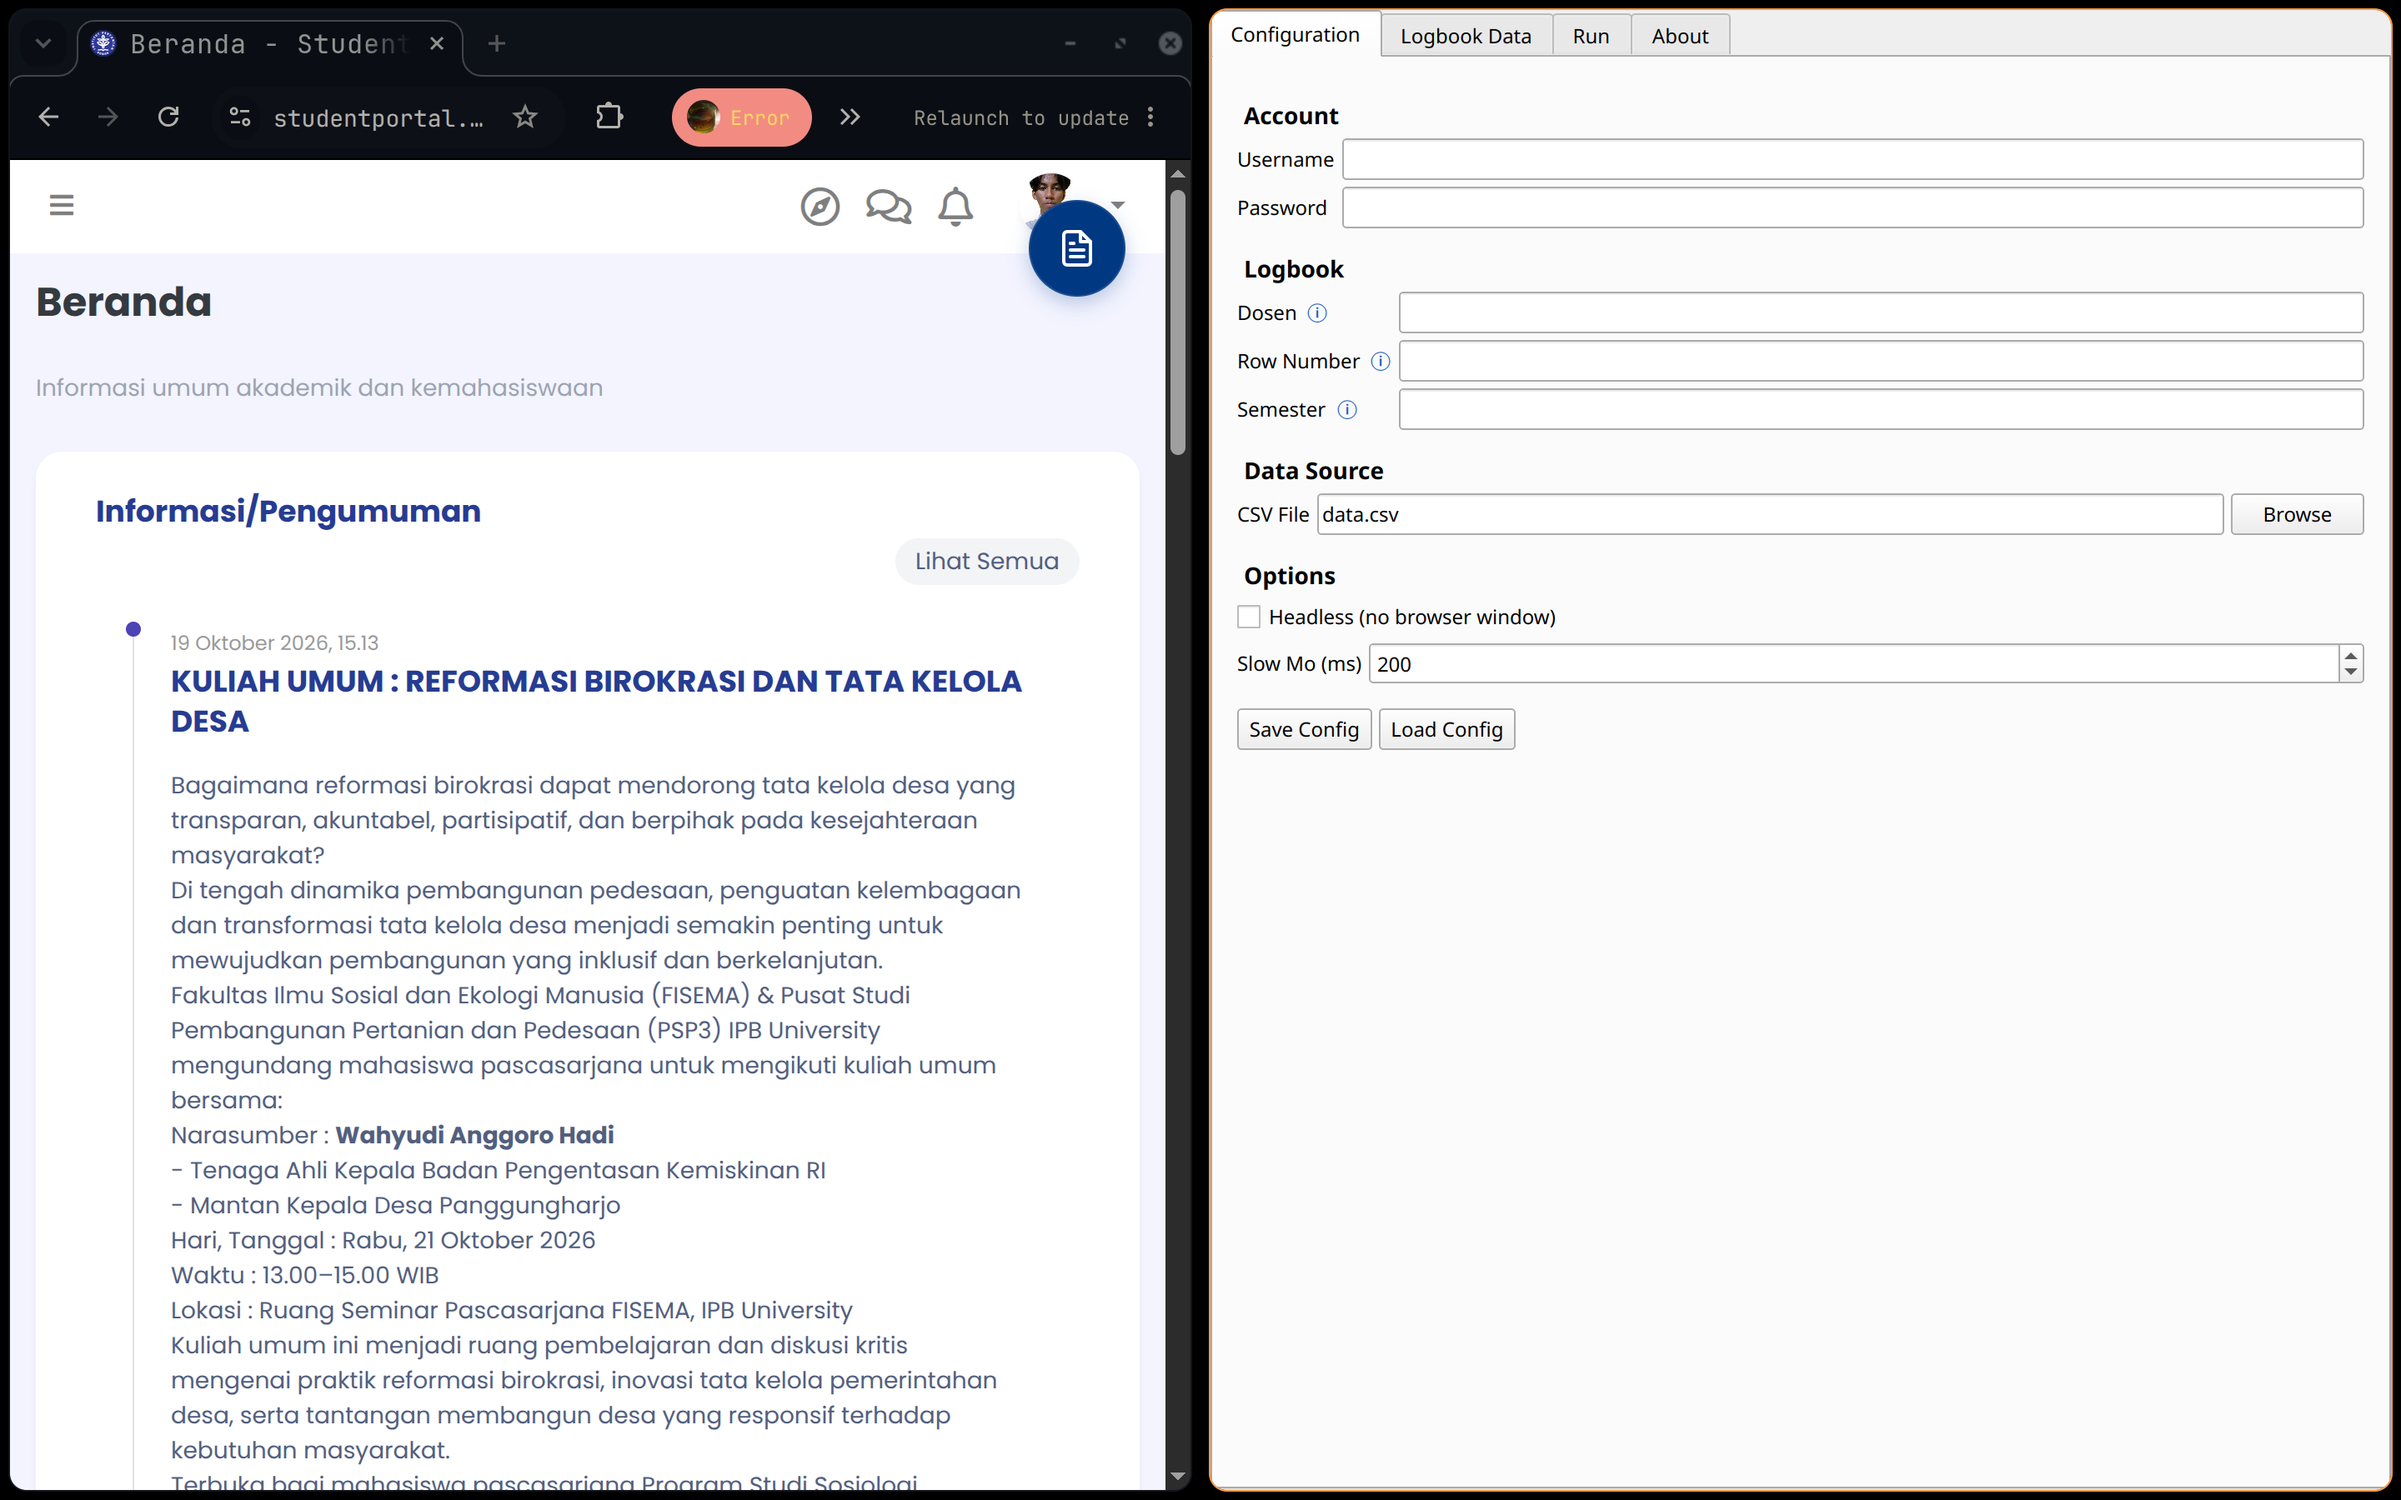
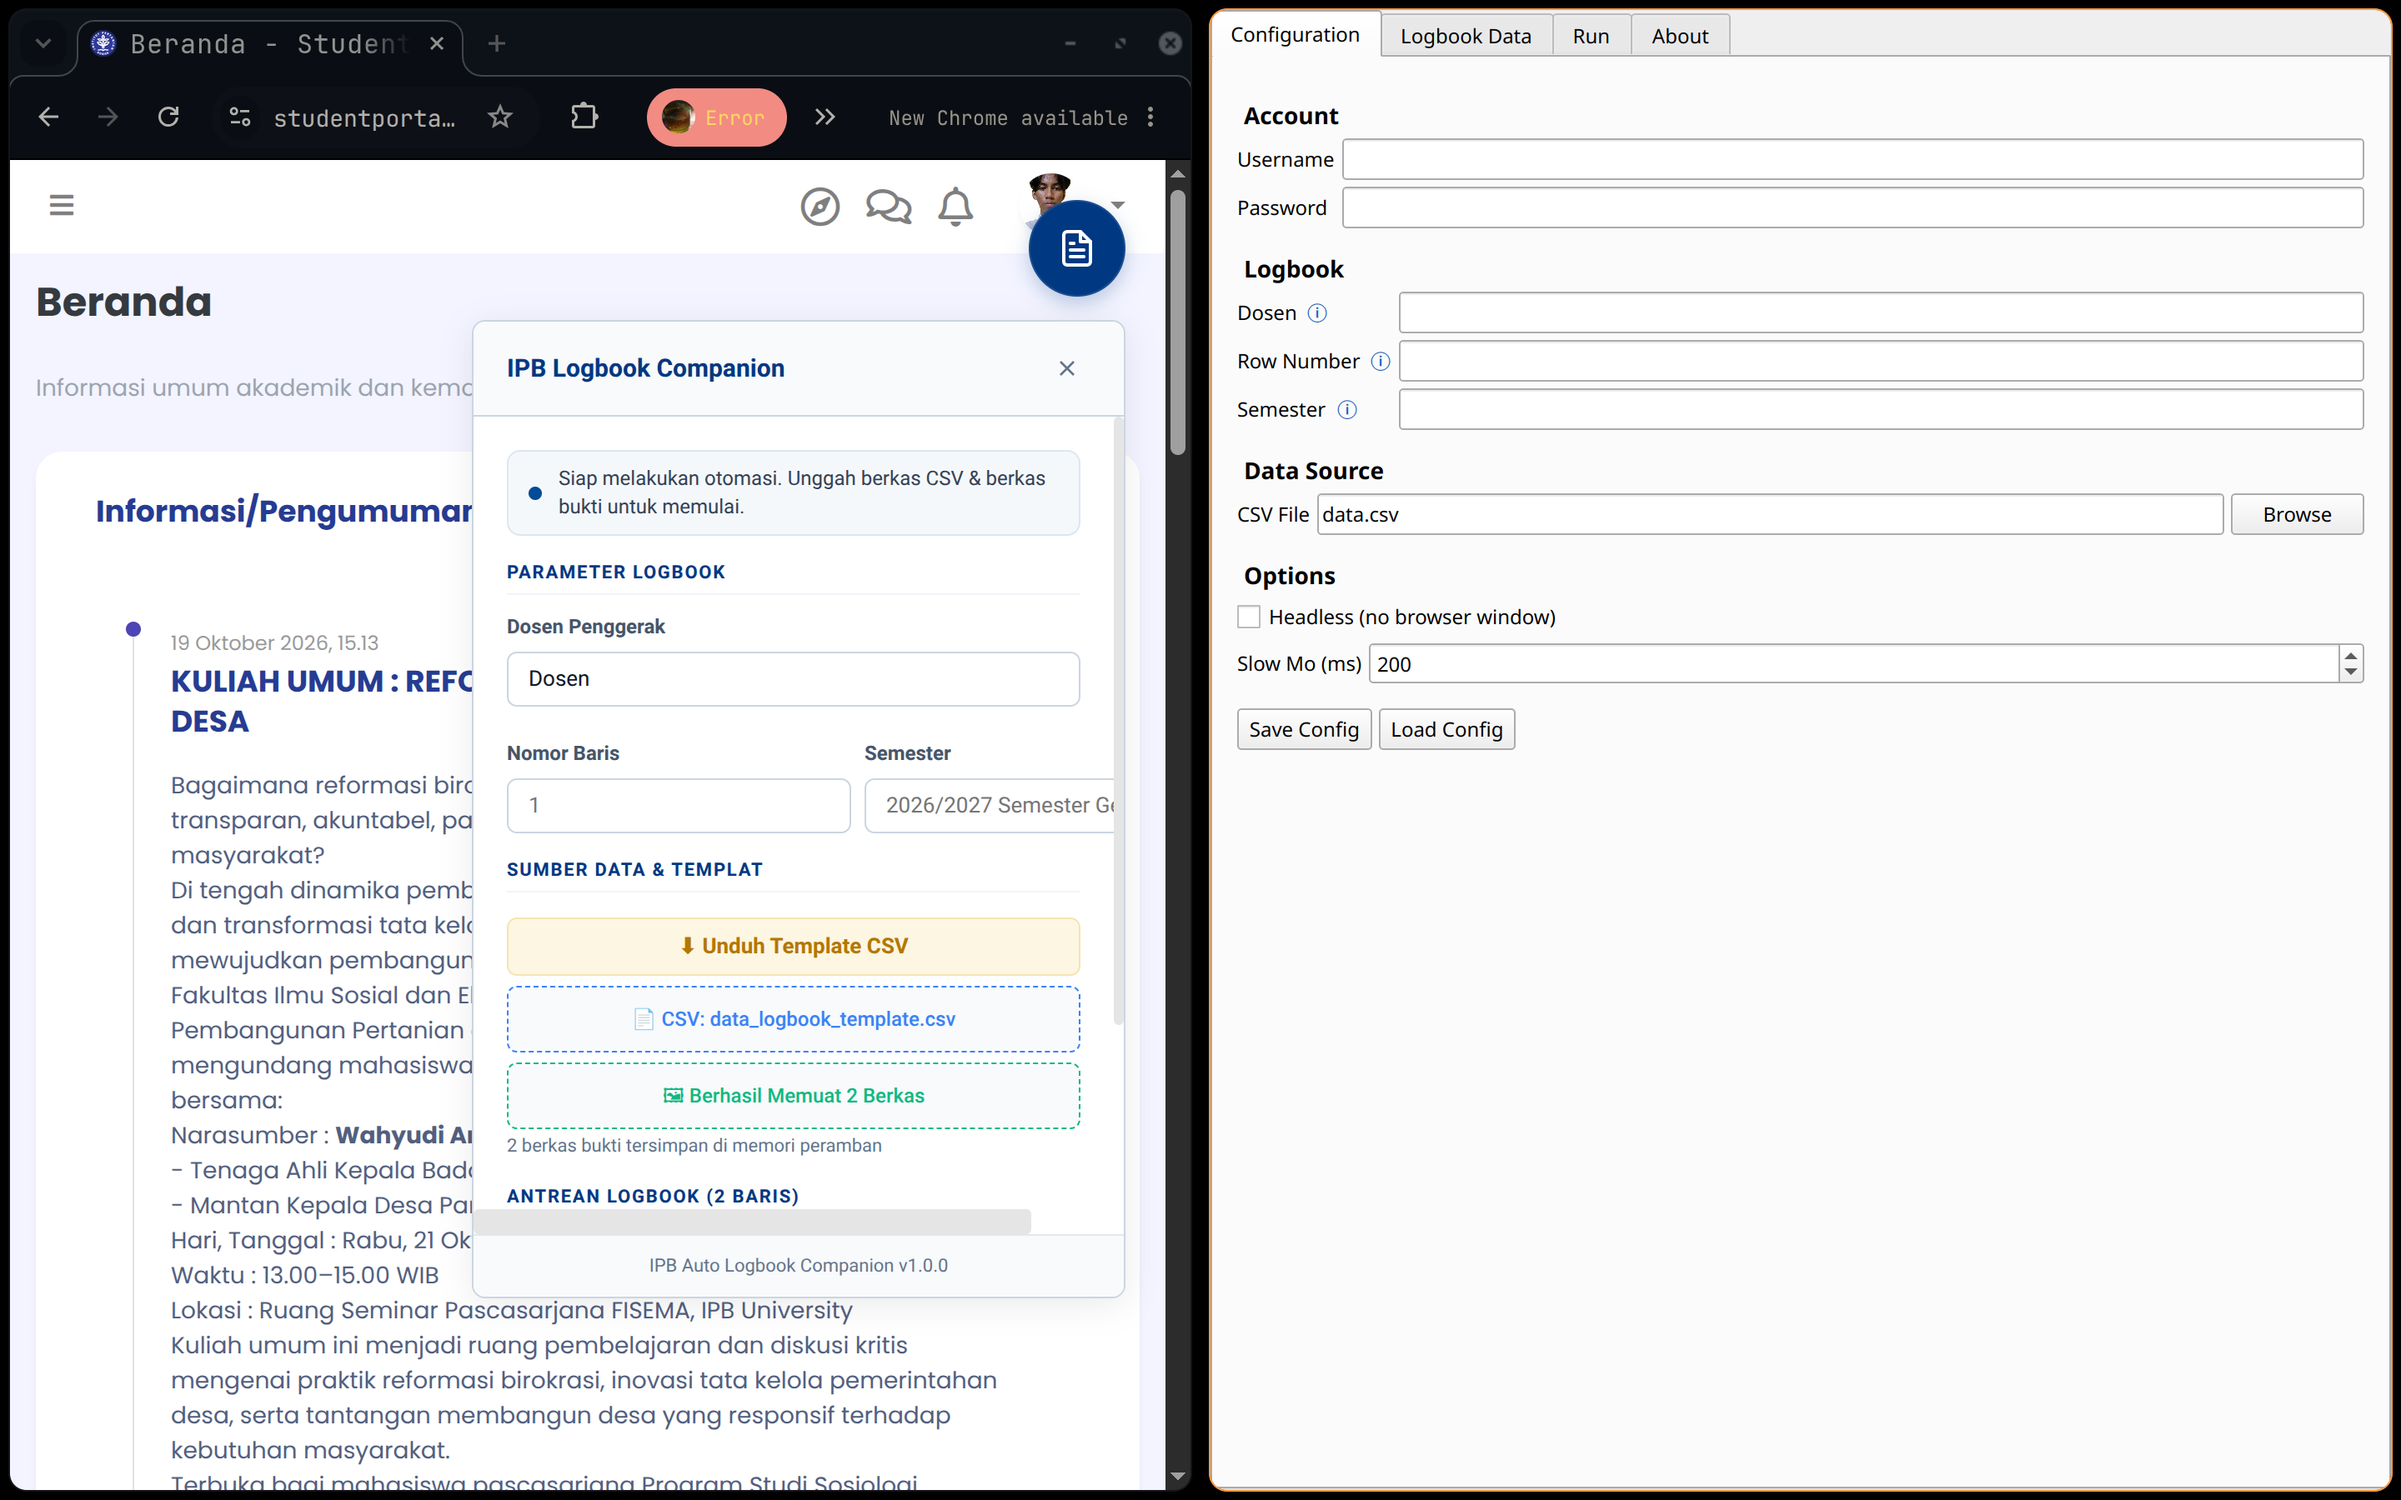
blog: updated information for full tutorial and updated app showcase

diff --git a/src/posts/ipb-auto-logbook.md b/src/posts/ipb-auto-logbook.md
@@ -72,7 +72,7 @@ IPB Auto Logbook menyediakan beberapa keunggulan teknis yang memudahkan pengisia
 5. **Penyimpanan Berkas Lampiran**: Memanfaatkan *IndexedDB* pada browser agar berkas bukti tetap tersimpan rapi selama antrean pengisian berjalan.
 
 <figure>
-  <img src="/blog/ipb-auto-logbook/app-showcase.webp" alt="Preview Tampilan Aplikasi di Portal IPB" class="rounded-lg border border-border w-full" />
+  <img src="/blog/ipb-auto-logbook/app-showcase.webp" alt="Preview Tampilan Aplikasi Desktop dan Chrome Extension di Portal IPB" class="rounded-lg border border-border w-full" />
   <figcaption>Preview Tampilan Aplikasi di Portal IPB</figcaption>
 </figure>
 
@@ -208,13 +208,7 @@ Agar otomatisasi dapat menemukan baris kegiatan yang tepat pada tabel portal, pe
 
 ## Video Panduan Lengkap
 
-Untuk melihat alur penggunaan dari awal pembuatan berkas data hingga proses pengisian selesai di portal mahasiswa, simak rekaman video tutorial di bawah ini:
-
-<!-- PLACEHOLDER 6: VIDEO WALKTHROUGH -->
-<div class="media-placeholder">
-  <span class="media-badge media-badge-video">Sorry!</span>
-  <h4 class="media-title">Coming Soon!</h4>
-</div>
+Untuk saat ini, video panduan lengkap penggunaan IPB Auto Logbook bis dilihat melalui instagram. Kalian bisa mengikuti tutorial dari instagram resmi pengembang di [@insan_a_r](https://www.instagram.com/reel/DeD3A3ZpPzp/) untuk panduan dari awal hingga akhir proses otomatisasi.
 
 ## Keamanan Data dan Privasi
 
